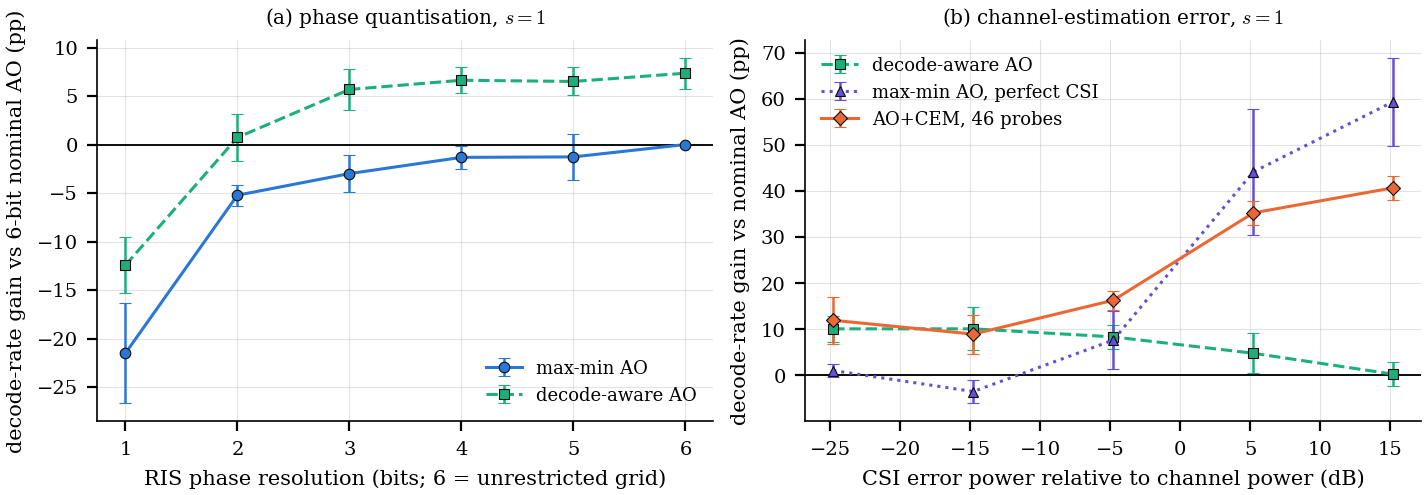
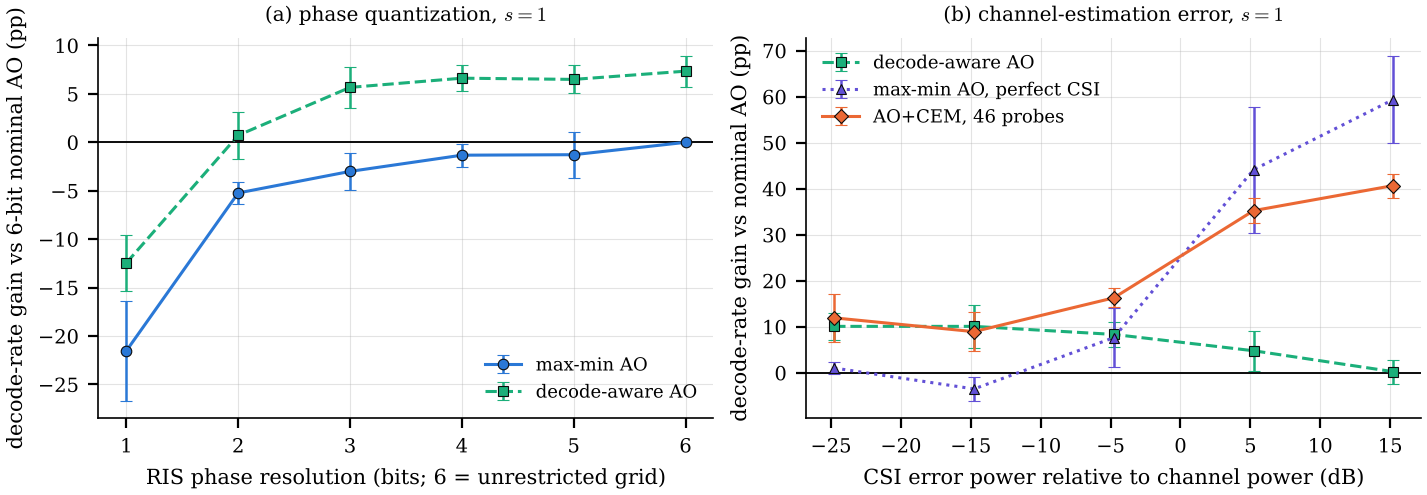
American spelling throughout; abstract: state learned-method outcome, trim to 247 words
Claude-Session: https://claude.ai/code/session_01YV24zFPYB82r3aHhSy3N98

diff --git a/paper/main.tex b/paper/main.tex
@@ -33,7 +33,7 @@
 \maketitle
 
 \begin{abstract}
-Unmanned aerial vehicle (UAV)-mounted reconfigurable intelligent surfaces (RISs) offer a promising solution for age-of-information (AoI)-aware data collection in Internet of Things (IoT) networks. However, practical RIS hardware exhibits phase-dependent amplitude (PDA) characteristics, and element-wise hardware variations, together with imperfect channel state information (CSI), can significantly affect communication reliability. Although deep reinforcement learning (DRL) has been increasingly investigated for RIS control, its benefits remain insufficiently established against strong model-based optimization baselines under controlled and reproducible evaluation conditions. This paper develops an audited simulation benchmark for UAV-RIS-assisted data collection to systematically investigate the effects of hardware mismatch, channel-estimation errors, optimization objectives, and measurement-based feedback on decoding performance and AoI. A decode-aware alternating optimization (AO) method is evaluated against conventional max-min AO, calibration-assisted optimization, probing-based search, and learning-based approaches, including soft actor-critic (SAC) and proximal policy optimization (PPO). Extensive experiments demonstrate that the proposed decode-aware objective improves the decoding rate by $7.7\pm3.5$ percentage points over conventional max-min AO across the default evaluation settings, without requiring additional measurements. Its effectiveness is further confirmed on 15 previously unseen random seeds, achieving an improvement of $7.2\pm1.3$ percentage points, with all 15 seeds showing positive gains. Furthermore, the decode-aware method reduces average AoI by $1.65\pm0.58$ time slots (approximately 14\%) under a greedy AoI-based scheduler. The results also reveal that hardware mismatch introduces comparatively modest performance degradation at realistic variation levels, while rough hardware calibration can recover most of the associated loss. These findings establish the importance of strong optimization baselines, controlled experimental protocols, and held-out statistical validation when assessing learning-based methods for practical UAV-RIS-assisted IoT networks.
+Unmanned aerial vehicle (UAV)-mounted reconfigurable intelligent surfaces (RISs) offer a promising solution for age-of-information (AoI)-aware data collection in Internet of Things (IoT) networks. However, practical RIS hardware exhibits phase-dependent amplitude (PDA) characteristics, and element-wise hardware variations, together with imperfect channel state information (CSI), can significantly affect communication reliability. Although deep reinforcement learning (DRL) has been increasingly investigated for RIS control, its benefits remain insufficiently established against strong model-based optimization baselines under controlled and reproducible evaluation conditions. This paper develops an audited simulation benchmark for UAV-RIS-assisted data collection to systematically investigate the effects of hardware mismatch, channel-estimation errors, optimization objectives, and measurement-based feedback on decoding performance and AoI. A decode-aware alternating optimization (AO) method is evaluated against max-min AO, calibration-assisted optimization, probing-based search, and learning-based approaches, namely soft actor-critic (SAC) and proximal policy optimization (PPO). Experiments show that the decode-aware objective improves the decoding rate by $7.7\pm3.5$ percentage points over conventional max-min AO in the default setting, without requiring additional measurements. The gain is confirmed on 15 previously unseen seeds ($7.2\pm1.3$ percentage points, all positive). Furthermore, the decode-aware method reduces average AoI by $1.65\pm0.58$ time slots (approximately 14\%) under a greedy AoI-based scheduler. The results also reveal that hardware mismatch introduces comparatively modest performance degradation at realistic variation levels, while rough hardware calibration can recover most of the associated loss. The learned SAC residual policy and PPO scheduler did not outperform these baselines, which underscores the need for strong baselines and held-out validation when assessing learning-based RIS control.
 \end{abstract}
 
 \begin{IEEEkeywords}
@@ -138,9 +138,9 @@ We utilize Age of Information (AoI) to quantify the freshness of data collected 
 \end{equation}
 
 \subsection{Problem Formulation}
-\paragraph*{Slot level (P1).} For the scheduled cluster at a given UAV position, choose the BS combiner $\mathbf{G}$ and RIS phases $\boldsymbol{\theta}$ from the CSI estimate to maximise the number of decoded devices, $\max \sum_{k}\mathbb{1}[R_k\ge R_{\text{min}}]$, with rates evaluated on the true hardware and channel.
+\paragraph*{Slot level (P1).} For the scheduled cluster at a given UAV position, choose the BS combiner $\mathbf{G}$ and RIS phases $\boldsymbol{\theta}$ from the CSI estimate to maximize the number of decoded devices, $\max \sum_{k}\mathbb{1}[R_k\ge R_{\text{min}}]$, with rates evaluated on the true hardware and channel.
 
-\paragraph*{Episode level (P2).} Jointly choose the UAV velocity and the cluster to serve at each step to minimise the network-average AoI,
+\paragraph*{Episode level (P2).} Jointly choose the UAV velocity and the cluster to serve at each step to minimize the network-average AoI,
 \begin{equation}
     \begin{split}
     \min \; & \frac{1}{T K_{\text{total}}} \sum_{t=1}^{T} \sum_{k=1}^{K_{\text{total}}} A_k(t) \\
@@ -153,16 +153,16 @@ where each slot's decoding outcome comes from the P1 solver. Problem P1 is the p
 \label{sec:methods}
 
 \subsection{Schedulers (episode level)}
-\emph{Round robin}; \emph{greedy AoI} (serve the cluster with the largest summed AoI, flying towards it); \emph{greedy AoI with travel} (the same, discounting clusters by the travel time needed to reach them); \emph{random}; and a learned hybrid-action \emph{PPO} scheduler (categorical cluster choice plus Gaussian velocity) trained on a pool of layouts and evaluated on held-out layouts.
+\emph{Round robin}; \emph{greedy AoI} (serve the cluster with the largest summed AoI, flying toward it); \emph{greedy AoI with travel} (the same, discounting clusters by the travel time needed to reach them); \emph{random}; and a learned hybrid-action \emph{PPO} scheduler (categorical cluster choice plus Gaussian velocity) trained on a pool of layouts and evaluated on held-out layouts.
 
 \subsection{RIS solvers (slot level)}
-\paragraph*{AO with a max-min objective.} Alternate between (a) the zero-forcing combiner for the effective channel $\sum_l v_l \mathbf{D}_{\cdot,l}$ and (b) a per-element search over 64 phase grid points that maximises the minimum user rate. The solver assumes an amplitude model: \emph{ideal} (unit modulus), \emph{nominal} (the designer's PDA curve), or \emph{true} (the actual hardware, which requires a calibration campaign). Evaluation always uses the true hardware.
+\paragraph*{AO with a max-min objective.} Alternate between (a) the zero-forcing combiner for the effective channel $\sum_l v_l \mathbf{D}_{\cdot,l}$ and (b) a per-element search over 64 phase grid points that maximizes the minimum user rate. The solver assumes an amplitude model: \emph{ideal} (unit modulus), \emph{nominal} (the designer's PDA curve), or \emph{true} (the actual hardware, which requires a calibration campaign). Evaluation always uses the true hardware.
 
 \paragraph*{Calibration-error AO.} AO with the true PDA parameters perturbed by a fixed error of $e$ times the mismatch scale of $s=1$ ($e\in\{0.25,0.5\}$). This is a sensitivity model that answers how accurate a calibration must be; it is not a probe-based estimator.
 
-\paragraph*{Decode-aware AO.} Same alternation, but each element is chosen to maximise $\sum_k \sigma\!\big((R_k-R_{\text{min}}(1+\epsilon))/\tau\big)+0.01\,\min_k R_k/R_{\text{min}}$, with $\sigma$ the logistic function, $\tau=0.2R_{\text{min}}$ (our initial value, used in all studies except Section~\ref{sec:robust}, which shows that a wider sigmoid is better) and margin $\epsilon=0.15$, warm-started from the max-min solution. It uses no measurements beyond the CSI estimate. (A first version with a hard decoded-count objective had flat regions that made the element choice arbitrary and lost about 20 points; we replaced it before the results reported here.)
+\paragraph*{Decode-aware AO.} Same alternation, but each element is chosen to maximize $\sum_k \sigma\!\big((R_k-R_{\text{min}}(1+\epsilon))/\tau\big)+0.01\,\min_k R_k/R_{\text{min}}$, with $\sigma$ the logistic function, $\tau=0.2R_{\text{min}}$ (our initial value, used in all studies except Section~\ref{sec:robust}, which shows that a wider sigmoid is better) and margin $\epsilon=0.15$, warm-started from the max-min solution. It uses no measurements beyond the CSI estimate. (A first version with a hard decoded-count objective had flat regions that made the element choice arbitrary and lost about 20 points; we replaced it before the results reported here.)
 
-\paragraph*{Probing baselines.} A cross-entropy method initialised at the nominal AO solution that may measure the true rate $B\in\{6,15,45\}$ times per slot (three iterations, elite fraction 0.25), and random search with 45 measurements. These receive the feedback a learning agent trains on, but at test time rather than in advance.
+\paragraph*{Probing baselines.} A cross-entropy method initialized at the nominal AO solution that may measure the true rate $B\in\{6,15,45\}$ times per slot (three iterations, elite fraction 0.25), and random search with 45 measurements. These receive the feedback a learning agent trains on, but at test time rather than in advance.
 
 \paragraph*{Perfect-CSI diagnostic.} The same AO with error-free CSI, to separate the effect of channel estimation.
 
@@ -175,7 +175,7 @@ where each slot's decoding outcome comes from the P1 solver. Problem P1 is the p
 \label{sec:setup}
 Unless stated otherwise: a $100\,\text{m}\times100\,\text{m}$ area, $C=10$ clusters of $K=4$ devices, $M=4$ BS antennas, $L=64$ RIS elements, UAV altitude 15\,m, $V_{\text{max}}=10$\,m/s, 200-step episodes, nominal PDA $\beta_{\text{min}}=0.2$ and $\bar{\kappa}=1.5$, device transmit power 10\,dBm, $R_{\text{min}}=0.5$\,bit/s/Hz, $K_{\text{rice}}=10$, $K_{\text{rice,BS}}=1$. Relative to the public code we (i) replaced oracle best-of-$N$ action selection inside the SAC wrapper by explicit probing baselines, (ii) made layouts and hardware instances seed-dependent, (iii) added geometric LoS and a separate BS-link factor, and (iv) scored all methods with one rate function. We chose $R_{\text{min}}$ and $K_{\text{rice,BS}}$ so that decoding is neither trivial nor impossible, and test their influence in Section~\ref{sec:sweeps}.
 
-Each of the 5 seeds has its own city layout and its own hardware instance. The curve studies of Figs.~\ref{fig:calibration}--\ref{fig:probing} draw their own slots and RNG streams, so the same method can differ from Table~\ref{tab:headroom} by a sampling error of about two points (for example nominal decode-aware AO at $s=1$: $+7.3$ there, $+6.8$ in the table), within the intervals. Slot-level studies use 200 held-out slots per seed (UAV at 0, 5, 10 and 15\,m horizontal distance from the cluster centre), with all methods scored on the same slot, channel and CSI estimate. We report decode rate (\% of devices with $R_k\ge R_{\text{min}}$), and the paired difference to nominal-PDA max-min AO per seed, with 95\% $t$-intervals over the 5 seeds. With five seeds the intervals are wide; paired differences are much tighter than the raw ones because they remove layout variance.
+Each of the 5 seeds has its own city layout and its own hardware instance. The curve studies of Figs.~\ref{fig:calibration}--\ref{fig:probing} draw their own slots and RNG streams, so the same method can differ from Table~\ref{tab:headroom} by a sampling error of about two points (for example nominal decode-aware AO at $s=1$: $+7.3$ there, $+6.8$ in the table), within the intervals. Slot-level studies use 200 held-out slots per seed (UAV at 0, 5, 10 and 15\,m horizontal distance from the cluster center), with all methods scored on the same slot, channel and CSI estimate. We report decode rate (\% of devices with $R_k\ge R_{\text{min}}$), and the paired difference to nominal-PDA max-min AO per seed, with 95\% $t$-intervals over the 5 seeds. With five seeds the intervals are wide; paired differences are much tighter than the raw ones because they remove layout variance.
 
 \subsection{Headroom decomposition}
 \label{sec:headroom}
@@ -188,13 +188,13 @@ Table~\ref{tab:headroom} reports decode rate at mismatch levels $s\in\{0,1,2\}$,
 \resizebox{\textwidth}{!}{\input{tables/table_headroom.tex}}
 \end{table*}
 
-\emph{Assuming an ideal RIS is costly:} AO that ignores the PDA loses 14--24 points to nominal-PDA AO at every mismatch level, so modelling the hardware, even nominally, is the first-order effect. \emph{Hardware mismatch is second order at realistic spread:} knowing the true curve gains $0.2\pm1.7$ points at $s=0$, $3.2\pm2.1$ at $s=1$ and $8.7\pm2.7$ at $s=2$. \emph{A rough calibration suffices:} with a calibration error of 0.25 the decode-aware solver recovers $13.7\pm3.1$ of the $15.4\pm3.2$ points of the true-curve decode-aware solver at $s=2$. \emph{Channel-estimation error costs about 6 points:} perfect CSI gains $6.5\pm6.2$ ($s=0$) and $6.0\pm7.4$ ($s=1$) with nominal max-min AO. \emph{The objective matters as much:} decode-aware AO with the nominal model gains $7.2\pm2.3$, $6.8\pm1.5$ and $7.9\pm1.3$ points at $s=0,1,2$ with no extra measurements, i.e.\ as much as removing the estimation error. \emph{Probing gains more but costs measurements:} CEM with 15 probes gains $7.3\pm2.3$ to $11.3\pm2.6$ points and with 45 probes $13.1\pm2.8$ to $18.7\pm2.2$; with only 6 probes it is worse than AO, because a few noisy samples replace a good solution. Random search with 45 probes is 8--17 points worse than AO.
+\emph{Assuming an ideal RIS is costly:} AO that ignores the PDA loses 14--24 points to nominal-PDA AO at every mismatch level, so modeling the hardware, even nominally, is the first-order effect. \emph{Hardware mismatch is second order at realistic spread:} knowing the true curve gains $0.2\pm1.7$ points at $s=0$, $3.2\pm2.1$ at $s=1$ and $8.7\pm2.7$ at $s=2$. \emph{A rough calibration suffices:} with a calibration error of 0.25 the decode-aware solver recovers $13.7\pm3.1$ of the $15.4\pm3.2$ points of the true-curve decode-aware solver at $s=2$. \emph{Channel-estimation error costs about 6 points:} perfect CSI gains $6.5\pm6.2$ ($s=0$) and $6.0\pm7.4$ ($s=1$) with nominal max-min AO. \emph{The objective matters as much:} decode-aware AO with the nominal model gains $7.2\pm2.3$, $6.8\pm1.5$ and $7.9\pm1.3$ points at $s=0,1,2$ with no extra measurements, i.e.\ as much as removing the estimation error. \emph{Probing gains more but costs measurements:} CEM with 15 probes gains $7.3\pm2.3$ to $11.3\pm2.6$ points and with 45 probes $13.1\pm2.8$ to $18.7\pm2.2$; with only 6 probes it is worse than AO, because a few noisy samples replace a good solution. Random search with 45 probes is 8--17 points worse than AO.
 
 
 \begin{figure*}[!tb]
 \centering
 \includegraphics[width=\textwidth]{figures/fig_headroom.pdf}
-\caption{Paired decode-rate gain over nominal-PDA max-min AO at mismatch levels $s=0,1,2$ (mean and 95\% $t$-interval over 5 seeds). Marker colour groups methods by the information they use.}
+\caption{Paired decode-rate gain over nominal-PDA max-min AO at mismatch levels $s=0,1,2$ (mean and 95\% $t$-interval over 5 seeds). Marker color groups methods by the information they use.}
 \label{fig:headroom}
 \end{figure*}
 
@@ -275,7 +275,7 @@ Under greedy AoI with travel, the nominal decode-aware solver lowers average AoI
 \label{sec:robust}
 The preceding studies use five seeds, and the decode-aware objective was designed on the same seeds. The studies below address both points. Each was specified, with its pass criterion, before it was run (\texttt{paper/PREREGISTRATION.md}); where a criterion failed we say so.
 
-\paragraph*{Twenty seeds, with a confirmatory split.} Seeds 0--4 were used while the method was designed and are labelled exploratory; seeds 5--19 were never used for any choice and are confirmatory. On the 15 confirmatory seeds the decode-aware solver (nominal model, width $0.2R_{\min}$) gains $+7.2\pm1.3$ points over nominal max-min AO at $s=1$ and $+8.4\pm0.7$ at $s=2$; every one of the 15 seeds improves in both cases (exact one-sided sign test $p=3.1\times10^{-5}$). Over all 20 seeds the gains are $+7.2\pm1.0$ and $+8.8\pm0.7$ (Fig.~\ref{fig:power}). The five-seed estimate was therefore not inflated by the design seeds. In Fig.~\ref{fig:power}, each marker is one seed (hollow: design seeds, filled: held-out seeds); the upper panels show that the held-out markers scatter around the same level as the design markers, and the lower panels show the 95\% interval narrowing as seeds are added without drifting.
+\paragraph*{Twenty seeds, with a confirmatory split.} Seeds 0--4 were used while the method was designed and are labeled exploratory; seeds 5--19 were never used for any choice and are confirmatory. On the 15 confirmatory seeds the decode-aware solver (nominal model, width $0.2R_{\min}$) gains $+7.2\pm1.3$ points over nominal max-min AO at $s=1$ and $+8.4\pm0.7$ at $s=2$; every one of the 15 seeds improves in both cases (exact one-sided sign test $p=3.1\times10^{-5}$). Over all 20 seeds the gains are $+7.2\pm1.0$ and $+8.8\pm0.7$ (Fig.~\ref{fig:power}). The five-seed estimate was therefore not inflated by the design seeds. In Fig.~\ref{fig:power}, each marker is one seed (hollow: design seeds, filled: held-out seeds); the upper panels show that the held-out markers scatter around the same level as the design markers, and the lower panels show the 95\% interval narrowing as seeds are added without drifting.
 
 \begin{figure*}[!tb]
 \centering
@@ -295,25 +295,25 @@ For channel-estimation error we vary the variance of the CSI estimation noise by
 \label{fig:robust}
 \end{figure*}
 
-\paragraph*{Sensitivity to the sigmoid width and margin.} Fig.~\ref{fig:tau}(a) varies the width $\tau/R_{\min}$ and the margin $\epsilon$ of the decode-aware objective on the five design seeds. The gain over nominal AO is positive, with an interval excluding zero, in all 20 settings (from $+7.8$ to $+15.7$ points), so the benefit is not an artefact of a hand-set value. It is also not flat: the width $0.2R_{\min}$ that we used for all other experiments is close to the worst of the grid ($+7.9$ at margin 0.15), and wider sigmoids are better ($+15.2$ at $0.8R_{\min}$); the margin has little effect.
+\paragraph*{Sensitivity to the sigmoid width and margin.} Fig.~\ref{fig:tau}(a) varies the width $\tau/R_{\min}$ and the margin $\epsilon$ of the decode-aware objective on the five design seeds. The gain over nominal AO is positive, with an interval excluding zero, in all 20 settings (from $+7.8$ to $+15.7$ points), so the benefit is not an artifact of a hand-set value. It is also not flat: the width $0.2R_{\min}$ that we used for all other experiments is close to the worst of the grid ($+7.9$ at margin 0.15), and wider sigmoids are better ($+15.2$ at $0.8R_{\min}$); the margin has little effect.
 
 A grid optimum found on the same seeds that produced it is not evidence, so we repeated the choice honestly. We extended the widths to $\{0.2,0.4,0.8,1.6,3.2,6.4\}R_{\min}$, chose $\tau^\star$ on the exploratory seeds at $s=1$ only ($\tau^\star=1.6R_{\min}$), and evaluated it on the 15 confirmatory seeds (Fig.~\ref{fig:tau}(b), (c)). It gains $+15.2\pm1.5$ points at $s=1$ and $+17.6\pm1.2$ at $s=2$, which was not used for the choice, with all 15 seeds improving in both cases, and it beats the width $0.2R_{\min}$ by $+7.5\pm0.8$ and $+9.5\pm1.0$ points in a paired comparison. The gain is flat for widths above $1.6R_{\min}$ ($+15.2\pm1.6$ at 3.2 and $+14.9\pm1.5$ at 6.4), so the result does not rest on a finely tuned value. All other experiments in this paper use the original width $0.2R_{\min}$; their decode-aware numbers are therefore conservative (see Section~\ref{sec:limits}).
 
 \begin{figure*}[!tb]
 \centering
 \includegraphics[width=\textwidth]{figures/fig_width.pdf}
-\caption{Is the decode-aware gain an artefact of the sigmoid width? (a) Gain over nominal max-min AO on the grid of width $\tau/R_{\min}$ and margin $\epsilon$ on the design seeds ($s=1$; box: the setting used elsewhere in the paper); every interval excludes zero, but the gain rises with the width. (b), (c) The width $\tau^\star=1.6R_{\min}$ (dotted line) was chosen on the design seeds at $s=1$ only and is evaluated on the 15 held-out seeds at $s=1$ and $s=2$; the gain is confirmed and flat for wider sigmoids. Means and 95\% intervals of paired differences.}
+\caption{Is the decode-aware gain an artifact of the sigmoid width? (a) Gain over nominal max-min AO on the grid of width $\tau/R_{\min}$ and margin $\epsilon$ on the design seeds ($s=1$; box: the setting used elsewhere in the paper); every interval excludes zero, but the gain rises with the width. (b), (c) The width $\tau^\star=1.6R_{\min}$ (dotted line) was chosen on the design seeds at $s=1$ only and is evaluated on the 15 held-out seeds at $s=1$ and $s=2$; the gain is confirmed and flat for wider sigmoids. Means and 95\% intervals of paired differences.}
 \label{fig:tau}
 \end{figure*}
 
 \FloatBarrier
 \subsection{Limitations and threats to validity}
 \label{sec:limits}
-Results come from simulation with a synthetic hardware-mismatch model and a Rician/LoS channel; no ray-traced or measured channels are used. All parameter sweeps are one-at-a-time, and the number of seeds is five in most studies (20 in the headline and width studies), so intervals there are wide. The headline decode-aware numbers in the headroom, calibration, sweep and episode studies use the initial sigmoid width $0.2R_{\min}$, which Section~\ref{sec:robust} shows is far from the best choice, so those gains are conservative; only the probing-budget and regime comparisons were repeated with the tuned width. Decode-aware AO fails with very coarse (1-bit) phase control and when the CSI error power approaches the channel power. Pilot overhead and RIS switching time are not modelled. The episode study uses two heuristic schedulers and no learned scheduler. The residual policy was trained for one hardware instance per seed and on one seed in the final recipe; a stronger or differently structured learner could behave differently.
+Results come from simulation with a synthetic hardware-mismatch model and a Rician/LoS channel; no ray-traced or measured channels are used. All parameter sweeps are one-at-a-time, and the number of seeds is five in most studies (20 in the headline and width studies), so intervals there are wide. The headline decode-aware numbers in the headroom, calibration, sweep and episode studies use the initial sigmoid width $0.2R_{\min}$, which Section~\ref{sec:robust} shows is far from the best choice, so those gains are conservative; only the probing-budget and regime comparisons were repeated with the tuned width. Decode-aware AO fails with very coarse (1-bit) phase control and when the CSI error power approaches the channel power. Pilot overhead and RIS switching time are not modeled. The episode study uses two heuristic schedulers and no learned scheduler. The residual policy was trained for one hardware instance per seed and on one seed in the final recipe; a stronger or differently structured learner could behave differently.
 
 \section{Conclusion}
 \label{sec:conclusion}
-On an audited UAV-RIS data-collection benchmark, the largest controllable losses in decode rate came from the optimisation objective and from ignoring the PDA hardware, not from a lack of learning. A decode-aware alternating optimisation with no extra measurements improves decode rate in every setting we tried, is confirmed on held-out seeds (and roughly doubles with a wider sigmoid chosen on the design seeds), and lowers AoI by about 14\% under a good scheduler; it needs at least 3-bit phase control and a CSI estimate better than the channel itself. Hardware mismatch is a second-order effect that a rough calibration removes, and per-slot probing adds the most at high power. A learned residual policy and a PPO scheduler did not beat these baselines. We recommend that future RIS-DRL claims be reported against such baselines, with paired statistics over seeds and held-out layouts. Code, configurations and the curated result files are released with the repository.
+On an audited UAV-RIS data-collection benchmark, the largest controllable losses in decode rate came from the optimization objective and from ignoring the PDA hardware, not from a lack of learning. A decode-aware alternating optimization with no extra measurements improves decode rate in every setting we tried, is confirmed on held-out seeds (and roughly doubles with a wider sigmoid chosen on the design seeds), and lowers AoI by about 14\% under a good scheduler; it needs at least 3-bit phase control and a CSI estimate better than the channel itself. Hardware mismatch is a second-order effect that a rough calibration removes, and per-slot probing adds the most at high power. A learned residual policy and a PPO scheduler did not beat these baselines. We recommend that future RIS-DRL claims be reported against such baselines, with paired statistics over seeds and held-out layouts. Code, configurations and the curated result files are released with the repository.
 
 \appendices
 \section{Residual SAC training curves}

diff --git a/paper/make_figures.py b/paper/make_figures.py
@@ -189,7 +189,7 @@ def fig_robust(curves, out):
             invariant('quant: 6-bit decode-aware AO equals the unrestricted decode-aware AO', dd < 1e-9, f'max |diff|={dd:.3g} pp')
         ax.axhline(0, color=INK, lw=0.7)
         ax.set_xlabel('RIS phase resolution (bits; 6 = unrestricted grid)'); ax.set_ylabel('decode-rate gain vs 6-bit nominal AO (pp)')
-        ax.set_xticks(bits); ax.set_title('(a) phase quantisation, $s=1$', fontsize=7.2); ax.legend(frameon=False, loc='lower right')
+        ax.set_xticks(bits); ax.set_title('(a) phase quantization, $s=1$', fontsize=7.2); ax.legend(frameon=False, loc='lower right')
     if dc is not None:
         ax = axes[1]; keys = list(dc['cells']); B = dc['config'].get('budgets', [46])
         x_db = np.array([np.mean([s['_meta']['csi_nmse_db'] for s in dc['cells'][k]['per_seed']]) for k in keys])
